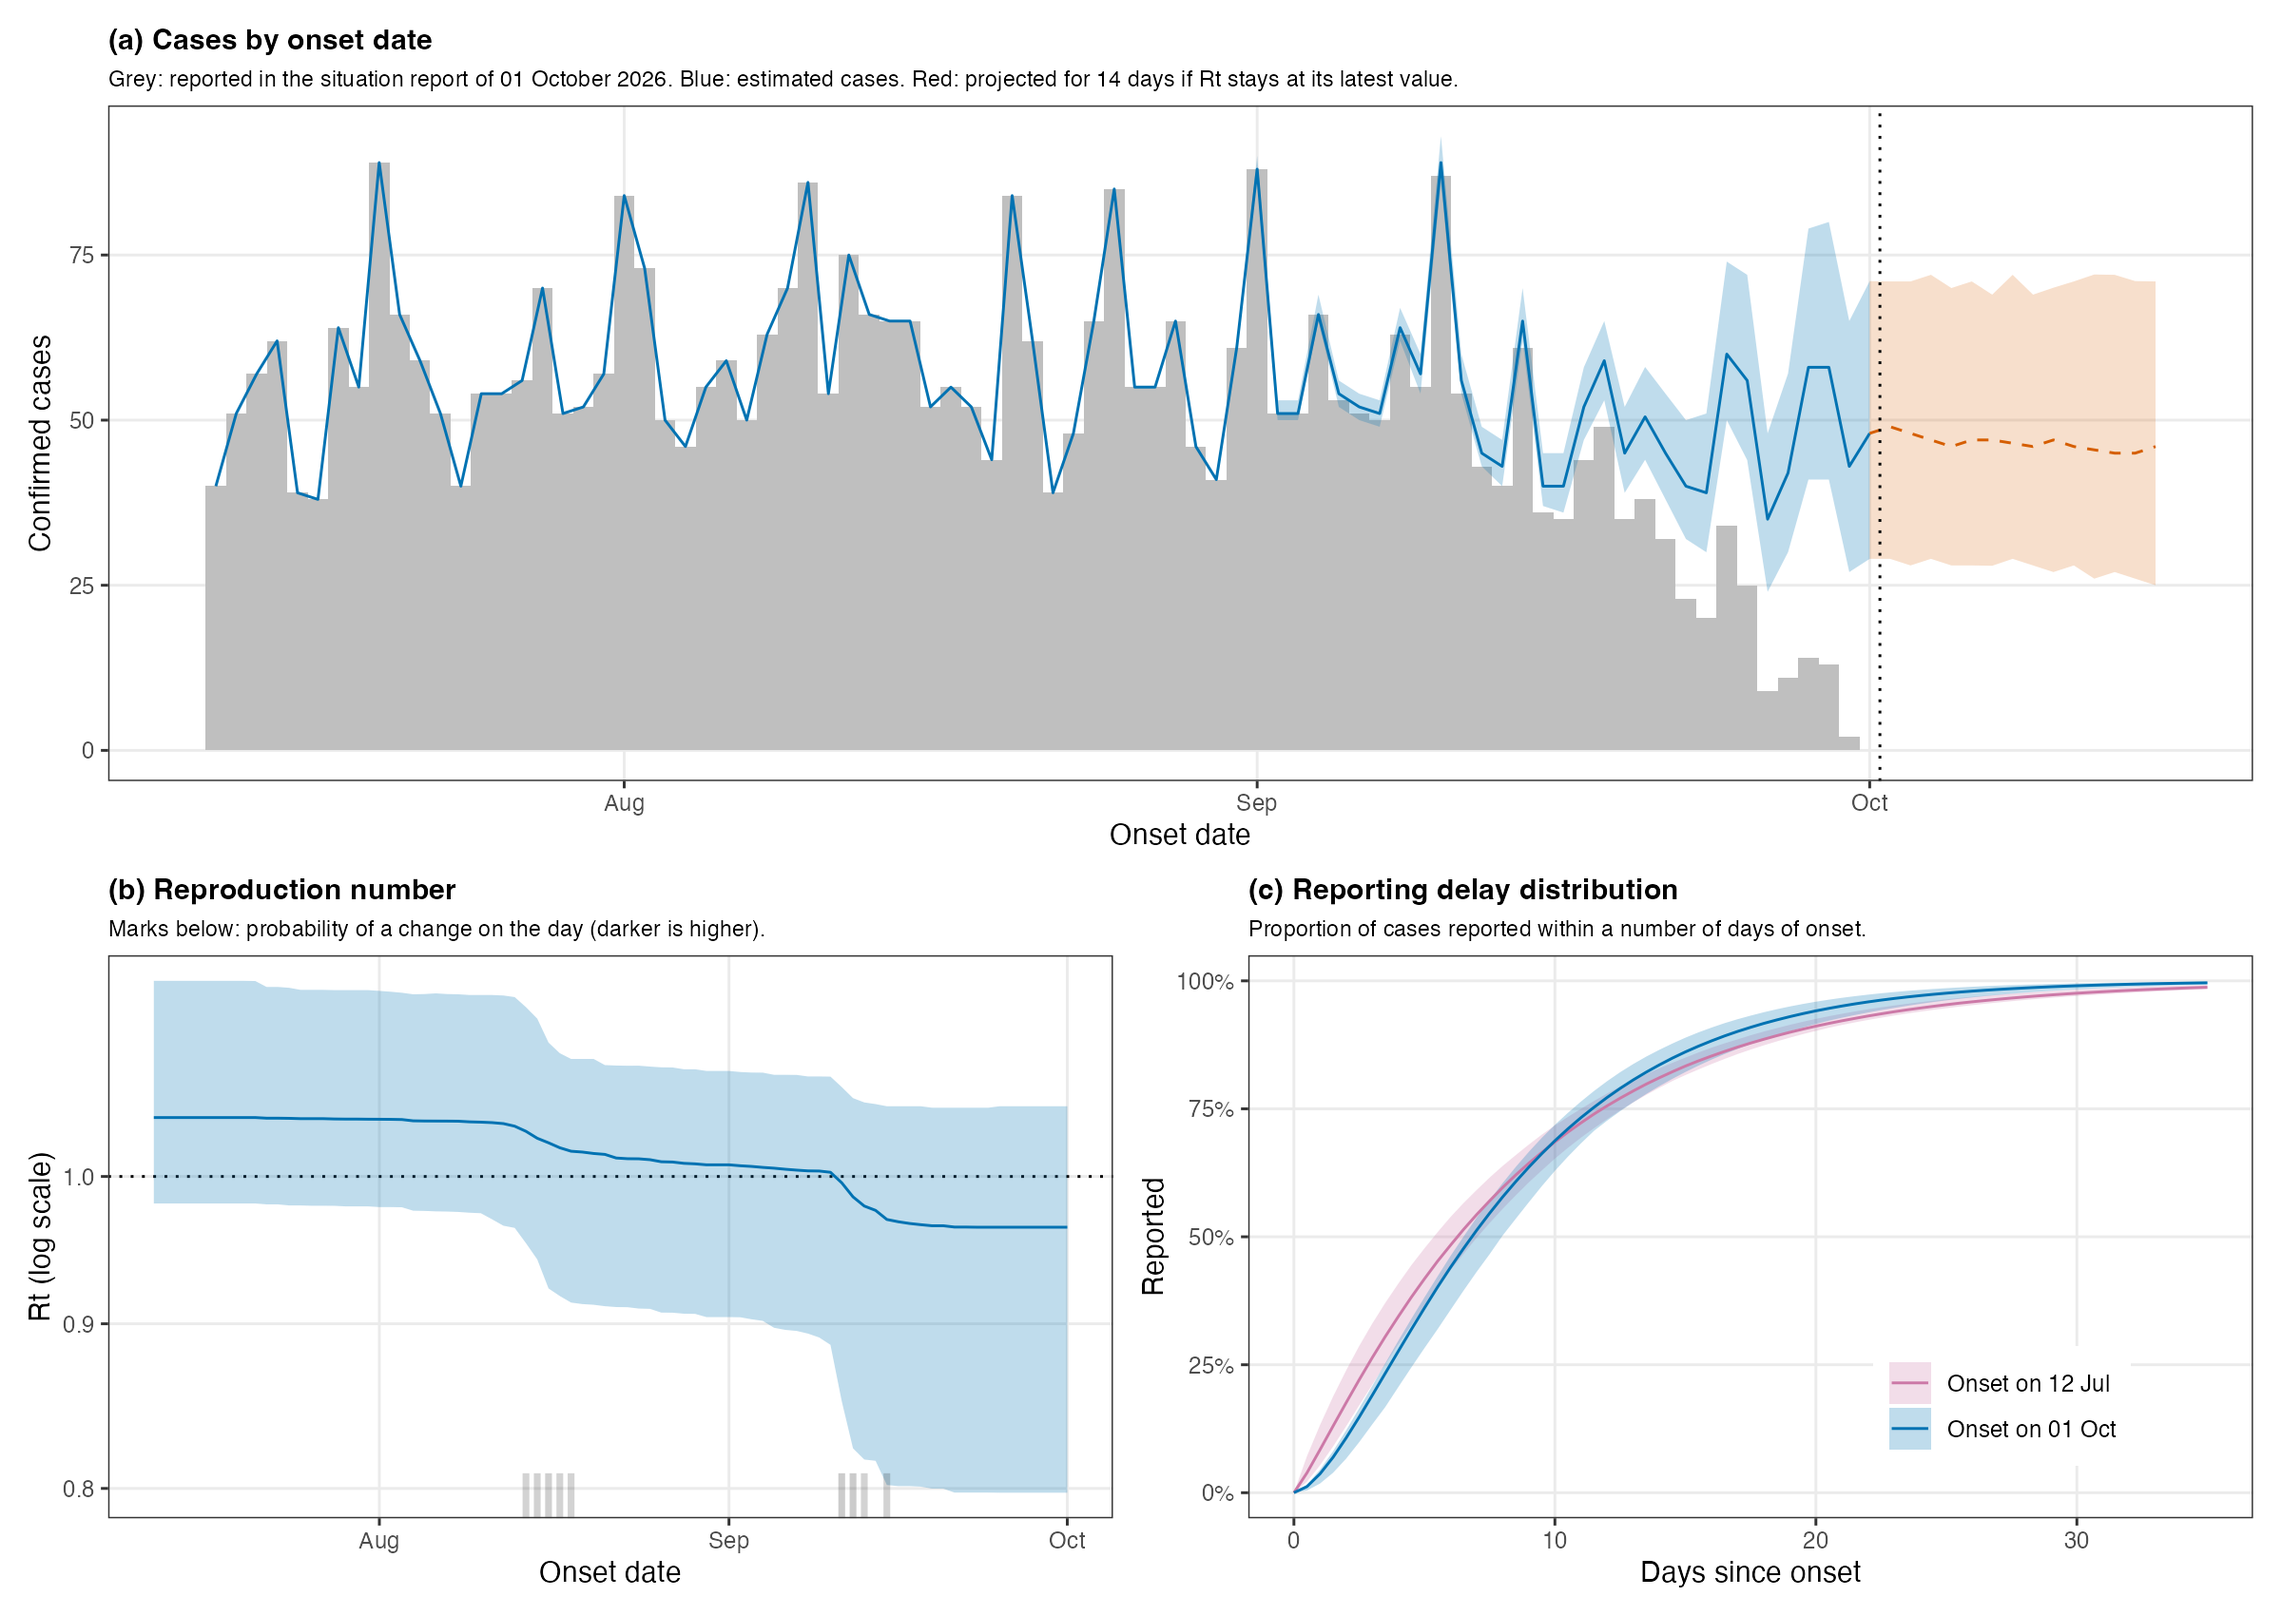
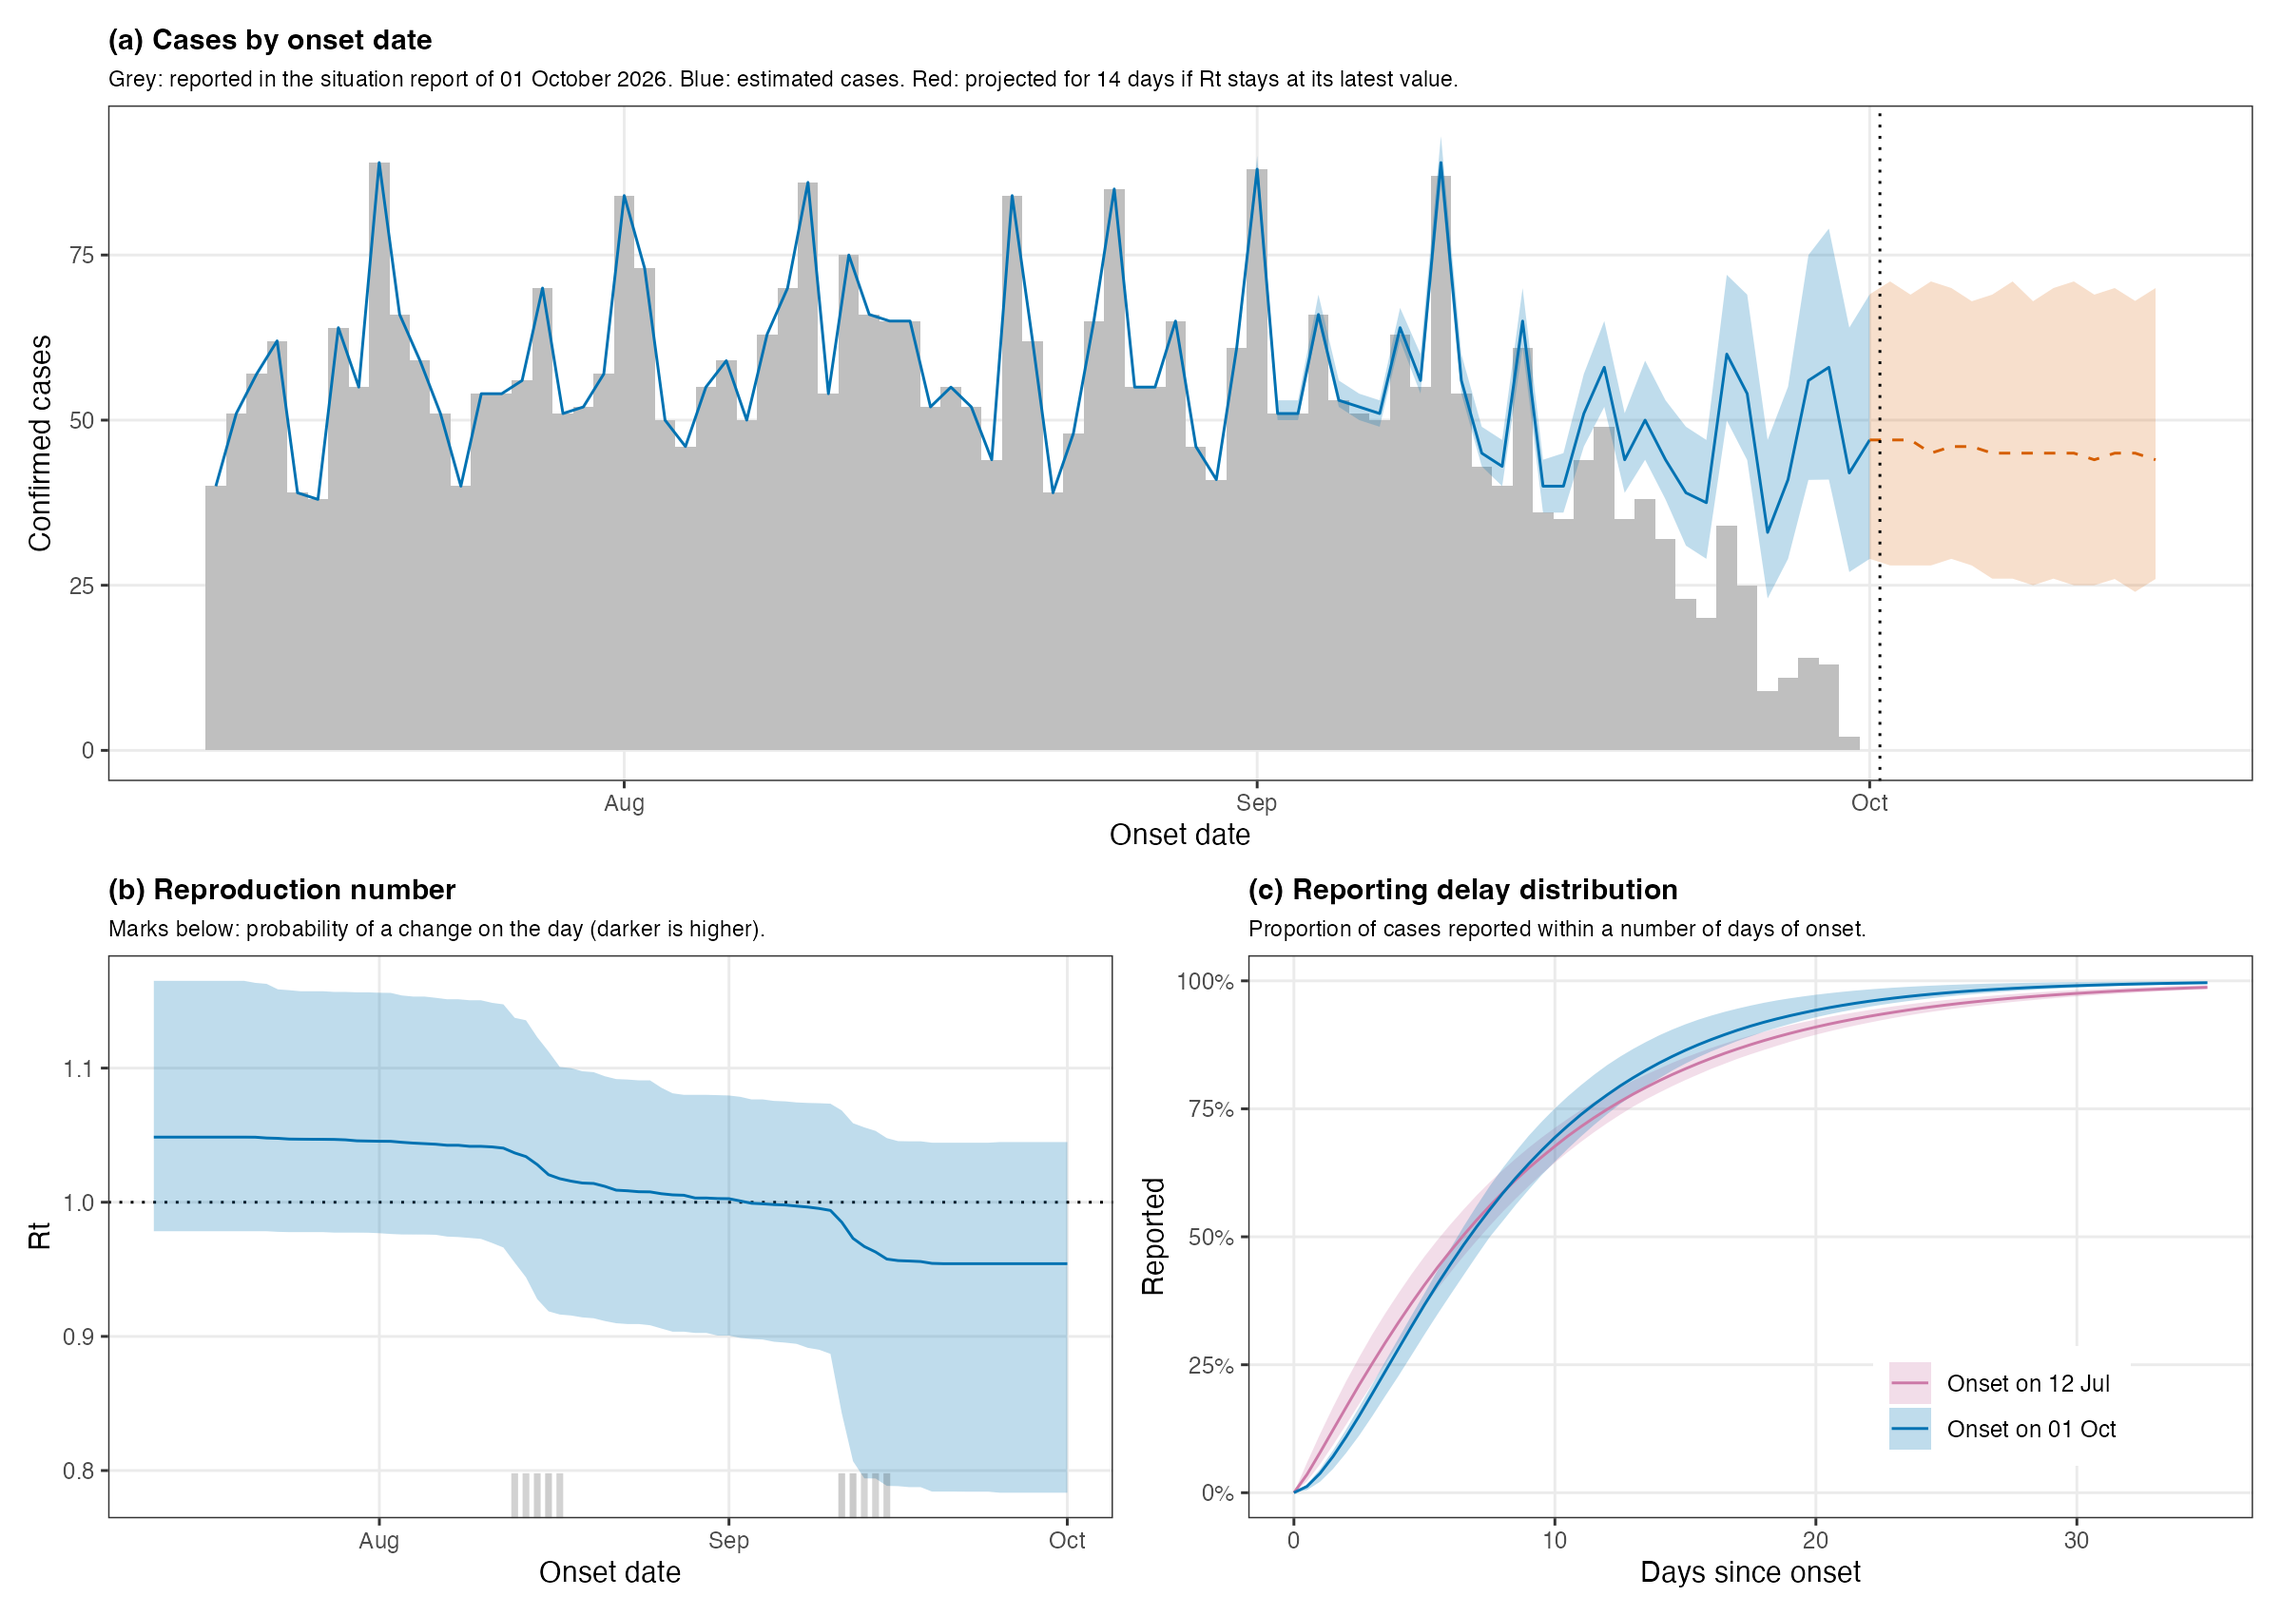
BVD results with 14-day minimum delay segments and 50 partition moves (interim)

diff --git a/outputs/tables/bvd_numbers.tex b/outputs/tables/bvd_numbers.tex
@@ -2,42 +2,42 @@
 \newcommand{\bvdChains}{3}
 \newcommand{\bvdIterations}{1500}
 \newcommand{\bvdDraws}{900}
-\newcommand{\bvdRt}{0.96 (0.80 to 1.05)}
-\newcommand{\bvdRtFirst}{1.04}
-\newcommand{\bvdRtChanges}{0.6}
-\newcommand{\bvdRtNoChange}{0.44}
-\newcommand{\bvdDelayMean}{8.4 (7.9 to 9.3)}
-\newcommand{\bvdDelaySd}{6.4 (5.7 to 7.1)}
-\newcommand{\bvdDelayChanges}{1.7}
+\newcommand{\bvdRt}{0.95 (0.78 to 1.04)}
+\newcommand{\bvdRtFirst}{1.05}
+\newcommand{\bvdRtChanges}{0.7}
+\newcommand{\bvdRtNoChange}{0.39}
+\newcommand{\bvdDelayMean}{8.3 (7.4 to 9.1)}
+\newcommand{\bvdDelaySd}{6.4 (5.1 to 6.8)}
+\newcommand{\bvdDelayChanges}{1.4}
 \newcommand{\bvdDelayNoChange}{0.00}
-\newcommand{\bvdKappa}{30 (20 to 42)}
-\newcommand{\bvdVarianceRatio}{2.7}
-\newcommand{\bvdEta}{0.029 (0.022 to 0.038)}
+\newcommand{\bvdKappa}{28 (18 to 45)}
+\newcommand{\bvdVarianceRatio}{2.8}
+\newcommand{\bvdEta}{0.029 (0.021 to 0.037)}
 \newcommand{\bvdErroneousPerHundred}{3}
-\newcommand{\bvdRho}{0.080 (0.061 to 0.106)}
+\newcommand{\bvdRho}{0.081 (0.062 to 0.105)}
 \newcommand{\bvdErroneousDays}{12}
-\newcommand{\bvdRecentMedians}{42 and 58}
-\newcommand{\bvdRecentInterval}{27 to 80}
+\newcommand{\bvdRecentMedians}{41 and 58}
+\newcommand{\bvdRecentInterval}{27 to 79}
 \newcommand{\bvdProjection}{46}
-\newcommand{\bvdProjectionInterval}{28 to 71}
+\newcommand{\bvdProjectionInterval}{27 to 70}
 \newcommand{\bvdCoverageMin}{86\%}
 \newcommand{\bvdCoverageMax}{100\%}
-\newcommand{\bvdBiasMax}{9\%}
-\newcommand{\bvdPthree}{0.97}
-\newcommand{\bvdPseven}{0.40}
+\newcommand{\bvdBiasMax}{10\%}
+\newcommand{\bvdPthree}{0.93}
+\newcommand{\bvdPseven}{0.31}
 \newcommand{\bvdPfourteen}{0.02}
 \newcommand{\bvdPvariation}{0.04}
-\newcommand{\bvdPdispersion}{0.41}
-\newcommand{\bvdPweekdayOnset}{0.44}
-\newcommand{\bvdRhatCoreMax}{1.10}
-\newcommand{\bvdRhatDelayChangesMax}{1.57}
-\newcommand{\bvdRhatDelayMeanMax}{1.28}
-\newcommand{\bvdRhatWeekdayMax}{1.87}
-\newcommand{\bvdRhatKappaMax}{1.28}
-\newcommand{\bvdPsiMon}{1.13 (1.04 to 1.22)}
-\newcommand{\bvdPsiTue}{0.82 (0.74 to 0.89)}
-\newcommand{\bvdPsiWed}{1.09 (1.02 to 1.16)}
-\newcommand{\bvdPsiThu}{1.06 (0.98 to 1.13)}
-\newcommand{\bvdPsiFri}{1.13 (1.05 to 1.20)}
-\newcommand{\bvdPsiSat}{0.91 (0.85 to 0.96)}
-\newcommand{\bvdPsiSun}{0.93 (0.88 to 0.99)}
+\newcommand{\bvdPdispersion}{0.48}
+\newcommand{\bvdPweekdayOnset}{0.46}
+\newcommand{\bvdRhatCoreMax}{1.06}
+\newcommand{\bvdRhatDelayChangesMax}{1.12}
+\newcommand{\bvdRhatDelayMeanMax}{1.57}
+\newcommand{\bvdRhatWeekdayMax}{1.81}
+\newcommand{\bvdRhatKappaMax}{1.27}
+\newcommand{\bvdPsiMon}{1.12 (1.05 to 1.22)}
+\newcommand{\bvdPsiTue}{0.83 (0.75 to 0.92)}
+\newcommand{\bvdPsiWed}{1.08 (1.02 to 1.13)}
+\newcommand{\bvdPsiThu}{1.04 (0.97 to 1.13)}
+\newcommand{\bvdPsiFri}{1.12 (1.07 to 1.19)}
+\newcommand{\bvdPsiSat}{0.90 (0.84 to 0.96)}
+\newcommand{\bvdPsiSun}{0.94 (0.88 to 0.99)}

diff --git a/outputs/tables/bvd_checks.tex b/outputs/tables/bvd_checks.tex
@@ -3,16 +3,16 @@
 Statistic & Observed & Replicates (median, 90\% interval) & $p$ \\
 \midrule
 \emph{Reporting} \\
-Proportion reported within 3 days of onset & 0.187 & 0.207 (0.189, 0.226) & 0.97 \\
-Proportion reported within 7 days of onset & 0.484 & 0.481 (0.463, 0.502) & 0.40 \\
-Proportion reported within 14 days of onset & 0.826 & 0.809 (0.792, 0.822) & 0.02 \\
-Variation between reports in cases added (sd / mean) & 0.712 & 0.674 (0.637, 0.709) & 0.04 \\
-Largest number of cases added to one onset day in one report & 46 & 42 (36, 48) & 0.15 \\
-Proportion of updates in which a count does not change & 0.602 & 0.591 (0.578, 0.603) & 0.08 \\
-Number of updates in which a count falls & 37 & 26 (17, 38) & 0.08 \\
+Proportion reported within 3 days of onset & 0.187 & 0.204 (0.185, 0.224) & 0.93 \\
+Proportion reported within 7 days of onset & 0.484 & 0.478 (0.457, 0.500) & 0.31 \\
+Proportion reported within 14 days of onset & 0.826 & 0.805 (0.788, 0.821) & 0.02 \\
+Variation between reports in cases added (sd / mean) & 0.712 & 0.673 (0.637, 0.708) & 0.04 \\
+Largest number of cases added to one onset day in one report & 46 & 42 (37, 48) & 0.15 \\
+Proportion of updates in which a count does not change & 0.602 & 0.589 (0.577, 0.604) & 0.08 \\
+Number of updates in which a count falls & 37 & 27 (17, 38) & 0.07 \\
 \addlinespace
 \emph{Transmission} \\
-Dispersion of cases about the renewal mean (variance / mean) & 3.0 & 2.9 (2.0, 4.3) & 0.41 \\
-Variation in cases between days of the week of onset & 0.068 & 0.065 (0.036, 0.104) & 0.44 \\
+Dispersion of cases about the renewal mean (variance / mean) & 3.0 & 3.0 (2.0, 4.5) & 0.48 \\
+Variation in cases between days of the week of onset & 0.068 & 0.066 (0.033, 0.104) & 0.46 \\
 \bottomrule
 \end{tabular}

diff --git a/outputs/tables/bvd_rhat.tex b/outputs/tables/bvd_rhat.tex
@@ -3,17 +3,17 @@
  & \multicolumn{6}{c}{Analysis date} \\
 Quantity & 16 Aug & 30 Aug & 5 Sep & 6 Sep & 20 Sep & 1 Oct \\
 \midrule
-$R_t$, latest onset day & 1.00 & 1.01 & 1.00 & 1.00 & 1.02 & 1.04 \\
-Cases, latest 14 onset days in total & 1.02 & 1.01 & 1.03 & 1.02 & 1.08 & 1.05 \\
-Cases, worst single onset day & 1.03 & 1.02 & 1.04 & 1.02 & 1.10 & 1.02 \\
-Number of changes in $R_t$ & 1.00 & 1.00 & 1.01 & 1.00 & 1.01 & 1.03 \\
-$\kappa$ & 1.28 & 1.08 & 1.06 & 1.05 & 1.03 & 1.05 \\
-$\eta$ & 1.05 & 1.02 & 1.01 & 1.03 & 1.03 & 1.02 \\
-$\rho$ & 1.05 & 1.01 & 1.01 & 1.00 & 1.00 & 1.03 \\
+$R_t$, latest onset day & 1.01 & 1.01 & 1.00 & 1.00 & 1.02 & 1.01 \\
+Cases, latest 14 onset days in total & 1.02 & 1.01 & 1.02 & 1.01 & 1.05 & 1.03 \\
+Cases, worst single onset day & 1.02 & 1.02 & 1.02 & 1.01 & 1.03 & 1.03 \\
+Number of changes in $R_t$ & 1.00 & 1.00 & 1.00 & 1.01 & 1.01 & 1.01 \\
+$\kappa$ & 1.05 & 1.05 & 1.04 & 1.27 & 1.03 & 1.06 \\
+$\eta$ & 1.00 & 1.01 & 1.01 & 1.01 & 1.00 & 1.02 \\
+$\rho$ & 1.06 & 1.01 & 1.00 & 1.02 & 1.00 & 1.01 \\
 \addlinespace
-Mean delay, latest onset day & 1.08 & 1.12 & 1.23 & 1.23 & 1.25 & 1.13 \\
-Standard deviation of delay, latest onset day & 1.08 & 1.17 & 1.28 & 1.16 & 1.23 & 1.26 \\
-Number of changes in delay & 1.03 & 1.03 & 1.04 & 1.19 & 1.46 & 1.57 \\
-Effects of day of week (worst) & 1.08 & 1.45 & 1.20 & 1.87 & 1.10 & 1.15 \\
+Mean delay, latest onset day & 1.08 & 1.14 & 1.57 & 1.08 & 1.14 & 1.11 \\
+Standard deviation of delay, latest onset day & 1.06 & 1.12 & 1.48 & 1.09 & 1.17 & 1.16 \\
+Number of changes in delay & 1.03 & 1.09 & 1.01 & 1.01 & 1.12 & 1.02 \\
+Effects of day of week (worst) & 1.14 & 1.81 & 1.66 & 1.19 & 1.25 & 1.14 \\
 \bottomrule
 \end{tabular}

diff --git a/outputs/tables/bvd_dates.tex b/outputs/tables/bvd_dates.tex
@@ -3,11 +3,11 @@
 Analysis date & Score & Coverage of & Bias & $R_t$, latest onset day & Mean delay, latest \\
  & & 90\% intervals & & & onset day (days) \\
 \midrule
-16 August & 0.056 & 100\% & $-6\%$ & 1.09 (1.01, 1.18) & 9.2 (8.3, 10.2) \\
-30 August & 0.078 & 93\% & $+9\%$ & 1.08 (1.03, 1.16) & 8.7 (8.0, 9.2) \\
-5 September & 0.066 & 93\% & $+4\%$ & 1.06 (1.01, 1.13) & 8.5 (7.9, 9.1) \\
-6 September & 0.061 & 86\% & $+1\%$ & 1.06 (0.97, 1.11) & 8.4 (8.0, 8.8) \\
-20 September & 0.060 & 100\% & $+5\%$ & 0.98 (0.72, 1.07) & 7.3 (6.8, 9.6) \\
-1 October &  &  &  & 0.96 (0.80, 1.05) & 8.4 (7.9, 9.3) \\
+16 August & 0.056 & 100\% & $-5\%$ & 1.09 (1.01, 1.18) & 9.2 (8.6, 10.0) \\
+30 August & 0.081 & 86\% & $+10\%$ & 1.09 (1.03, 1.15) & 8.8 (8.2, 9.3) \\
+5 September & 0.068 & 86\% & $+5\%$ & 1.07 (1.01, 1.12) & 8.6 (7.9, 9.2) \\
+6 September & 0.059 & 86\% & $+1\%$ & 1.05 (0.96, 1.11) & 8.3 (7.9, 8.8) \\
+20 September & 0.057 & 100\% & $+5\%$ & 0.99 (0.68, 1.07) & 7.4 (6.8, 8.0) \\
+1 October &  &  &  & 0.95 (0.78, 1.04) & 8.3 (7.4, 9.1) \\
 \bottomrule
 \end{tabular}
